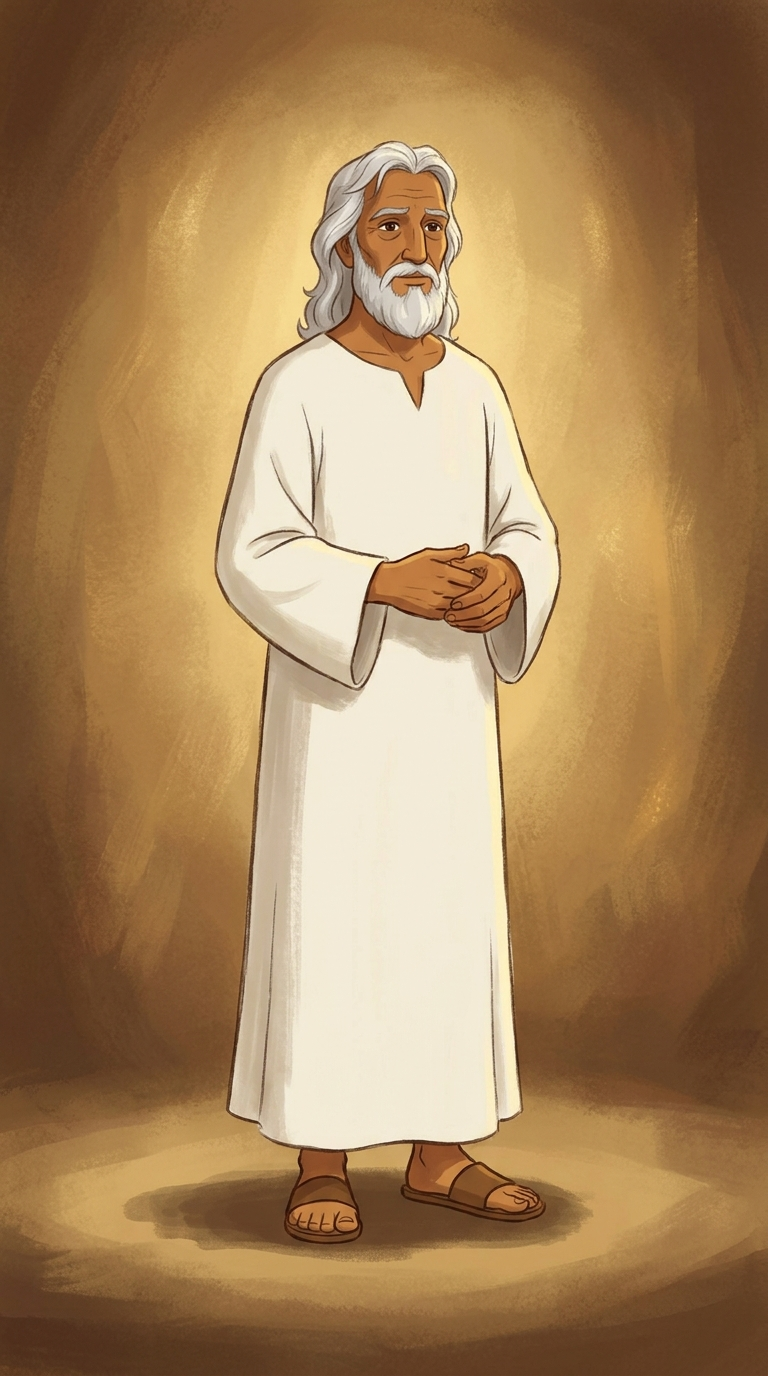
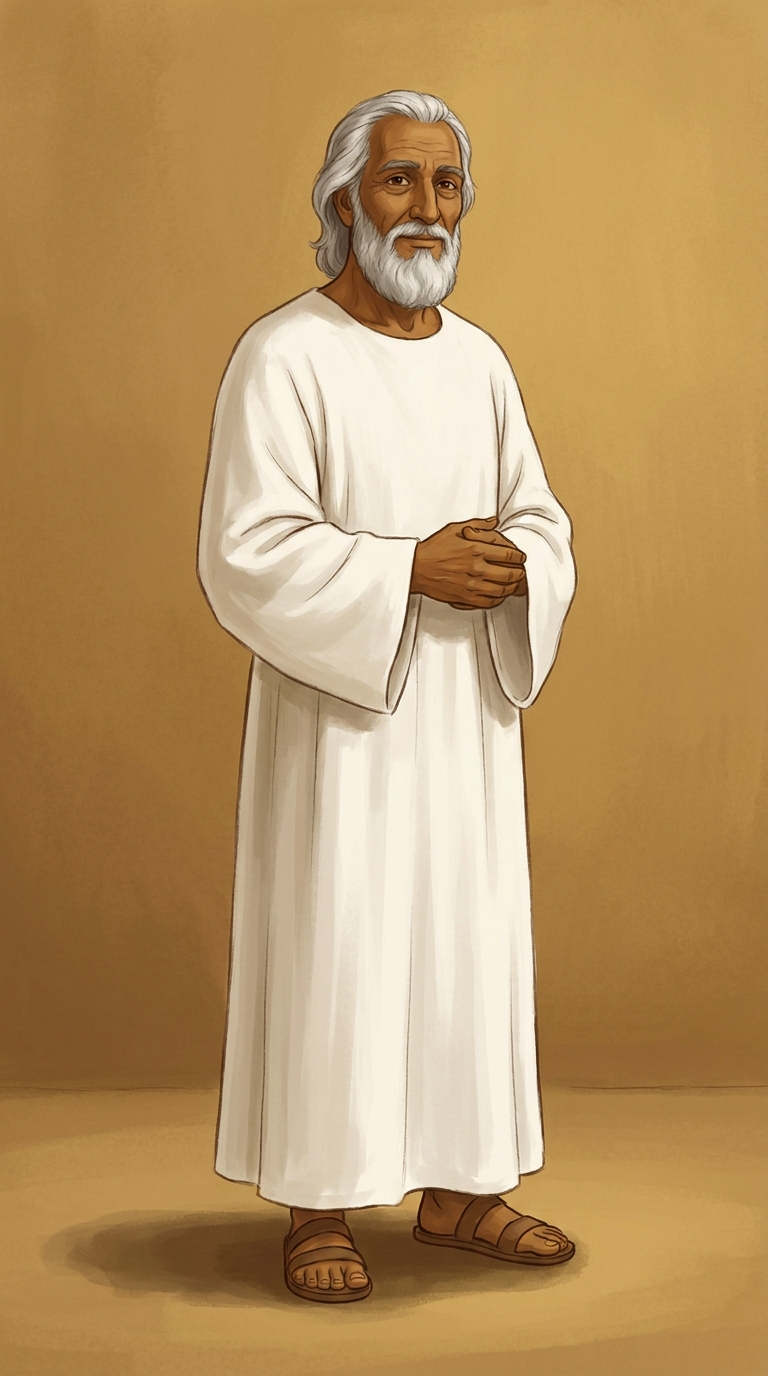
characters: BLOCKING sheets rendered (Father, Stephen, Elisha, Naaman) — #137/#140/#179 unblocked pending Cameron approval; QC harness guards (identity + flat background)

diff --git a/media-production/CHARACTERS/qc_strip.py b/media-production/CHARACTERS/qc_strip.py
@@ -1,0 +1,52 @@
+#!/usr/bin/env python3
+"""qc_strip.py — one QC image per character: the three views side by side,
+plus a zoomed face crop of the three-quarter and full-body so identity drift
+is visible at a glance. Writes <slug>/_qc.jpg (never committed as approval —
+it is a working QC aid; the contact sheet for Cameron is separate).
+
+Usage: python3 CHARACTERS/qc_strip.py <slug> [...]
+"""
+import sys
+from pathlib import Path
+
+from PIL import Image
+
+CH = Path(__file__).resolve().parent
+H = 640
+
+
+def load(p, height=H):
+    im = Image.open(p)
+    w = int(im.width * height / im.height)
+    return im.resize((w, height))
+
+
+def face_crop(p, height=H):
+    im = Image.open(p)
+    w, h = im.size
+    c = im.crop((int(w * .20), int(h * .02), int(w * .80), int(h * .42)))
+    nw = int(c.width * height / c.height)
+    return c.resize((nw, height))
+
+
+def strip(slug):
+    d = CH / slug
+    views = [d / "face-front.jpeg", d / "three-quarter.jpeg", d / "full-body.jpeg"]
+    if not all(v.exists() for v in views):
+        print(f"{slug}: missing views — skip")
+        return
+    tiles = [load(views[0]), load(views[1]), load(views[2]),
+             face_crop(views[1]), face_crop(views[2])]
+    w = sum(t.width for t in tiles) + 8 * (len(tiles) + 1)
+    out = Image.new("RGB", (w, H + 16), (24, 24, 28))
+    x = 8
+    for t in tiles:
+        out.paste(t, (x, 8))
+        x += t.width + 8
+    out.save(d / "_qc.jpg", quality=82)
+    print(f"{slug}: _qc.jpg written")
+
+
+if __name__ == "__main__":
+    for s in sys.argv[1:]:
+        strip(s)

diff --git a/media-production/CHARACTERS/render_sheet.py b/media-production/CHARACTERS/render_sheet.py
@@ -36,6 +36,16 @@ def parse_spec(slug):
             sys.exit(f"{slug}: no section for {view}")
         body = " ".join(vm.group(1).split())
         body = body.replace("[STYLE BLOCK]", style)
+        if view != "face-front":
+            # Identity guard (2026-07-21, learned on god-the-father): without
+            # this, derived views drift younger and paler than the locked face.
+            body += (" Copy the attached reference face EXACTLY — the same age"
+                     " with the same lines, the same skin tone never lighter,"
+                     " the same hair and beard length and color.")
+        # Background guard (2026-07-21): the style block's "glowing golden
+        # light" paints halo-like rays behind reference portraits — banned.
+        body += (" The background is FLAT and matte with NO light rays, NO"
+                 " radiance, NO aura or glow behind the figure.")
         prompts[view] = body
         # extra refs named in the section header, e.g. (ref: ../x.jpeg)
         hm = re.search(r"### " + view + r".*?\(refs?:([^)]+)\)", spec)

diff --git a/media-production/CHARACTER-LAW.md b/media-production/CHARACTER-LAW.md
@@ -66,66 +66,66 @@ recurs in a new story, rule 4 kicks in: sheet first.
 | Character | SPEC.md | Sheet rendered | Cameron approved |
 |---|---|---|---|
 | Jesus | ✅ (face-law v3) | ✅ JESUS-MASTER-REF | ✅ |
-| God the Father | ✅ GOD-THE-FATHER-LOCK | ⬜ | ⬜ |
-| Stephen | ⬜ | ⬜ | ⬜ |
-| Naaman | ⬜ | ⬜ | ⬜ |
-| Elisha | ⬜ | ⬜ | ⬜ |
-| Peter | ⬜ | ⬜ | ⬜ |
-| John (beloved) | ⬜ | ⬜ | ⬜ |
-| James (son of Zebedee) | ⬜ | ⬜ | ⬜ |
-| Andrew | ⬜ | ⬜ | ⬜ |
-| Matthew | ⬜ | ⬜ | ⬜ |
-| Thomas | ⬜ | ⬜ | ⬜ |
-| Judas Iscariot | ⬜ | ⬜ | ⬜ |
-| John the Baptist | ⬜ | ⬜ | ⬜ |
-| Mary (mother of Jesus) | ⬜ | ⬜ | ⬜ |
-| Joseph of Nazareth | ⬜ | ⬜ | ⬜ |
-| Mary Magdalene | ⬜ | ⬜ | ⬜ |
-| Martha | ⬜ | ⬜ | ⬜ |
-| Mary of Bethany | ⬜ | ⬜ | ⬜ |
-| Lazarus | ⬜ | ⬜ | ⬜ |
-| Zacchaeus | ⬜ | ⬜ | ⬜ |
-| Nicodemus | ⬜ | ⬜ | ⬜ |
-| Pilate | ⬜ | ⬜ | ⬜ |
-| Paul | ⬜ | ⬜ | ⬜ |
-| Bartimaeus | ⬜ | ⬜ | ⬜ |
-| Jairus | ⬜ | ⬜ | ⬜ |
-| Cleopas | ⬜ | ⬜ | ⬜ |
-| Barabbas | ⬜ | ⬜ | ⬜ |
-| Zebedee | ⬜ | ⬜ | ⬜ |
-| Malchus | ⬜ | ⬜ | ⬜ |
-| Simon the Pharisee | ⬜ | ⬜ | ⬜ |
-| Young Jesus (boy ~12) | ⬜ | ⬜ | ⬜ |
-| Adam | ⬜ | ⬜ | ⬜ |
-| Eve | ⬜ | ⬜ | ⬜ |
-| Noah | ⬜ | ⬜ | ⬜ |
-| Abraham | ⬜ | ⬜ | ⬜ |
-| Sarah | ⬜ | ⬜ | ⬜ |
-| Isaac | ⬜ | ⬜ | ⬜ |
-| Jacob | ⬜ | ⬜ | ⬜ |
-| Joseph (of Egypt) | ⬜ | ⬜ | ⬜ |
-| Moses | ⬜ | ⬜ | ⬜ |
-| Aaron | ⬜ | ⬜ | ⬜ |
-| Joshua | ⬜ | ⬜ | ⬜ |
-| Elijah | ⬜ | ⬜ | ⬜ |
-| Eli | ⬜ | ⬜ | ⬜ |
-| Samuel | ⬜ | ⬜ | ⬜ |
-| Hannah | ⬜ | ⬜ | ⬜ |
-| David | ⬜ | ⬜ | ⬜ |
-| Ruth | ⬜ | ⬜ | ⬜ |
-| Naomi | ⬜ | ⬜ | ⬜ |
-| Boaz | ⬜ | ⬜ | ⬜ |
-| Job | ⬜ | ⬜ | ⬜ |
-| Jonah | ⬜ | ⬜ | ⬜ |
-| Daniel | ⬜ | ⬜ | ⬜ |
-| Shadrach | ⬜ | ⬜ | ⬜ |
-| Meshach | ⬜ | ⬜ | ⬜ |
-| Abednego | ⬜ | ⬜ | ⬜ |
-| Nebuchadnezzar | ⬜ | ⬜ | ⬜ |
-| Isaiah | ⬜ | ⬜ | ⬜ |
-| Jeremiah | ⬜ | ⬜ | ⬜ |
-| Ezekiel | ⬜ | ⬜ | ⬜ |
-| Hosea | ⬜ | ⬜ | ⬜ |
-| Gomer | ⬜ | ⬜ | ⬜ |
-| Joel | ⬜ | ⬜ | ⬜ |
-| Malachi | ⬜ | ⬜ | ⬜ |
+| God the Father | ✅ GOD-THE-FATHER-LOCK | ✅ | ⬜ |
+| Stephen | ✅ | ✅ | ⬜ |
+| Naaman | ✅ | ✅ | ⬜ |
+| Elisha | ✅ | ✅ | ⬜ |
+| Peter | ✅ | ⬜ | ⬜ |
+| John (beloved) | ✅ | ⬜ | ⬜ |
+| James (son of Zebedee) | ✅ | ⬜ | ⬜ |
+| Andrew | ✅ | ⬜ | ⬜ |
+| Matthew | ✅ | ⬜ | ⬜ |
+| Thomas | ✅ | ⬜ | ⬜ |
+| Judas Iscariot | ✅ | ⬜ | ⬜ |
+| John the Baptist | ✅ | ⬜ | ⬜ |
+| Mary (mother of Jesus) | ✅ | ⬜ | ⬜ |
+| Joseph of Nazareth | ✅ | ⬜ | ⬜ |
+| Mary Magdalene | ✅ | ⬜ | ⬜ |
+| Martha | ✅ | ⬜ | ⬜ |
+| Mary of Bethany | ✅ | ⬜ | ⬜ |
+| Lazarus | ✅ | ⬜ | ⬜ |
+| Zacchaeus | ✅ | ⬜ | ⬜ |
+| Nicodemus | ✅ | ⬜ | ⬜ |
+| Pilate | ✅ | ⬜ | ⬜ |
+| Paul | ✅ | ⬜ | ⬜ |
+| Bartimaeus | ✅ | ⬜ | ⬜ |
+| Jairus | ✅ | ⬜ | ⬜ |
+| Cleopas | ✅ | ⬜ | ⬜ |
+| Barabbas | ✅ | ⬜ | ⬜ |
+| Zebedee | ✅ | ⬜ | ⬜ |
+| Malchus | ✅ | ⬜ | ⬜ |
+| Simon the Pharisee | ✅ | ⬜ | ⬜ |
+| Young Jesus (boy ~12) | ✅ | ⬜ | ⬜ |
+| Adam | ✅ | ⬜ | ⬜ |
+| Eve | ✅ | ⬜ | ⬜ |
+| Noah | ✅ | ⬜ | ⬜ |
+| Abraham | ✅ | ⬜ | ⬜ |
+| Sarah | ✅ | ⬜ | ⬜ |
+| Isaac | ✅ | ⬜ | ⬜ |
+| Jacob | ✅ | ⬜ | ⬜ |
+| Joseph (of Egypt) | ✅ | ⬜ | ⬜ |
+| Moses | ✅ | ⬜ | ⬜ |
+| Aaron | ✅ | ⬜ | ⬜ |
+| Joshua | ✅ | ⬜ | ⬜ |
+| Elijah | ✅ | ⬜ | ⬜ |
+| Eli | ✅ | ⬜ | ⬜ |
+| Samuel | ✅ | ⬜ | ⬜ |
+| Hannah | ✅ | ⬜ | ⬜ |
+| David | ✅ | ⬜ | ⬜ |
+| Ruth | ✅ | ⬜ | ⬜ |
+| Naomi | ✅ | ⬜ | ⬜ |
+| Boaz | ✅ | ⬜ | ⬜ |
+| Job | ✅ | ⬜ | ⬜ |
+| Jonah | ✅ | ⬜ | ⬜ |
+| Daniel | ✅ | ⬜ | ⬜ |
+| Shadrach | ✅ | ⬜ | ⬜ |
+| Meshach | ✅ | ⬜ | ⬜ |
+| Abednego | ✅ | ⬜ | ⬜ |
+| Nebuchadnezzar | ✅ | ⬜ | ⬜ |
+| Isaiah | ✅ | ⬜ | ⬜ |
+| Jeremiah | ✅ | ⬜ | ⬜ |
+| Ezekiel | ✅ | ⬜ | ⬜ |
+| Hosea | ✅ | ⬜ | ⬜ |
+| Gomer | ✅ | ⬜ | ⬜ |
+| Joel | ✅ | ⬜ | ⬜ |
+| Malachi | ✅ | ⬜ | ⬜ |

diff --git a/media-production/CHARACTERS/god-the-father/SPEC.md b/media-production/CHARACTERS/god-the-father/SPEC.md
@@ -55,12 +55,15 @@ no glow. Plain soft warm golden-brown background. One single continuous scene
 painted edge to edge, no panels.
 
 ### full-body (attach face-front.jpeg as --ref)
-[STYLE BLOCK] The SAME man as the attached reference image — identical face,
-hair and beard: a full-length standing figure, head to feet fully in frame, of
-the majestic embodied man of about sixty, warm tan olive-brown skin, full
-silver-white hair to his shoulders, full silver-white beard, standing serene
+[STYLE BLOCK] The SAME man as the attached reference image — copy the
+reference face EXACTLY: the same age of about sixty with the same deep lines,
+the same deep warm tan olive-brown skin (never lighter, never pale), the same
+FULL broad silver-white beard and full silver-white hair to his shoulders: a
+full-length standing figure, head to feet fully in frame, standing serene
 and kingly and full of love, wearing a plain flowing pure-white robe reaching
 his feet, simple sandals. No crown, no throne, no halo, no glow. Plain soft
-warm golden-brown background, gentle ground shadow. Every figure has two arms,
+warm golden-brown background that is FLAT and matte with NO radiance, NO aura,
+NO pool of light around him — quiet and even like plaster — only a gentle
+ground shadow at his feet. Every figure has two arms,
 two hands, two legs and one head. One single continuous scene painted edge to
 edge, no panels.
